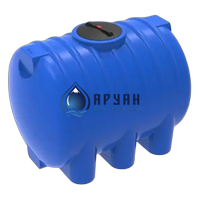
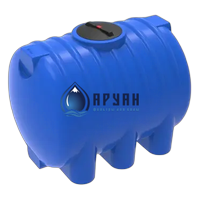
Ёмкости: логотип нанесён по форме поверхности
Плоская вставка заменена нанесением с учётом геометрии: изгиб печати по оси
цилиндра (вертикальной у стоячих, горизонтальной у лежачей R/HR), перенос
освещения подложки на логотип, центрирование по силуэту ёмкости, а не по кадру.

Пересобраны все 19 фотографий, включая семь прежних, чтобы каталог выглядел
однородно. Пять снимков без логотипа (обрешётки, термочехол, кассета) не
изменились.

Changed region(s): [[0.36, 0.45, 0.72, 0.57], [0.3, 0.42, 0.39, 0.54], [0.3, 0.54, 0.33, 0.57]]

diff --git a/devlog-data.js b/devlog-data.js
@@ -3,6 +3,10 @@
 // type: feature | fix | design | infra | rollback | plan
 window.DEVLOG = [
   {
+    date: "2026-09-18", type: "design", title: "Логотип на ёмкостях нанесён по форме, а не наклеен поверх",
+    text: "Владелец заметил, что логотип на ёмкостях смотрится неестественно - плоской наклейкой. Переделали все 19 фотографий: теперь печать изгибается по бочке (буквы сжимаются к краям, как на настоящем цилиндре, а у лежачей горизонтальной - по её оси), подхватывает блик и тень с поверхности и ставится по центру самой ёмкости, а не кадра. Заодно по этому же способу пересобраны семь старых ёмкостей - чтобы каталог выглядел однородно."
+  },
+  {
     date: "2026-09-18", type: "feature", title: "Ёмкости: каталог доведён до прайса - 19 позиций вместо 7",
     text: "Директор сказал, что в каталоге не хватает ёмкостей. Сверили каталог с эталонным прайсом и добавили 12 недостающих позиций: ЭВЛ 1000, L 1000, T 2000, S 1500, S 3000, TR 8000, горизонтальная R/HR 2000, ёмкости K 1000, K 3000 и ST 2000 в обрешётке, T 5000 с утеплением и поддоном, кассета ST 8000 на четыре ёмкости. Фотографии взяты из прайса и обработаны под каталог: убран фон, наложен логотип Аруан - как на остальных ёмкостях. На четырёх снимках логотипа нет по делу: две ёмкости в обрешётке, ёмкость в термочехле и кассета - там нет чистой стенки. Заодно: все ёмкости получили нормальные названия с моделью и объёмом вместо одинаковой «Накопительной ёмкости»; три цены подтянуты к прайсу (500 л - 16 500, S 1000 - 30 000, ST 2000 - 68 000), у ST 2000 исправлена опечатка в габаритах, а T 5000 получила свою фотографию вместо снимка T 3000."
   },
